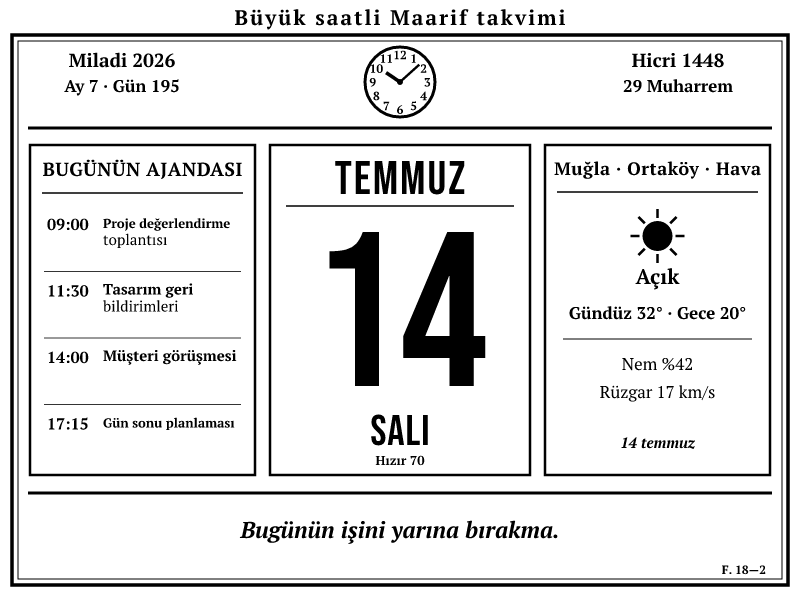
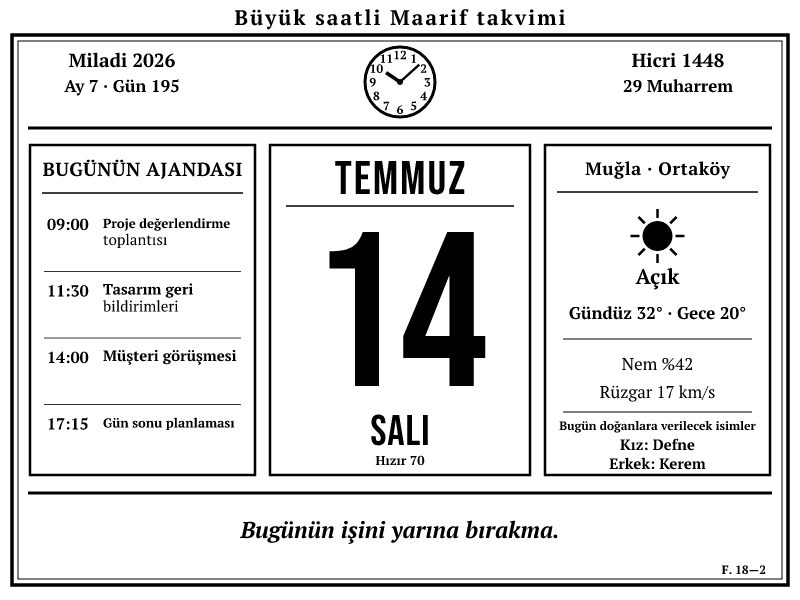
feat: add daily name suggestions

Changed region(s): [[0.6875, 0.66, 0.9375, 0.78], [0.6875, 0.27, 0.9688, 0.3]]

diff --git a/src/names.js b/src/names.js
@@ -1,0 +1,49 @@
+// Her takvim günü için çevrimdışı, sabit kız/erkek ismi önerileri.
+// Ay ve gün bazlı seçim sayesinde aynı tarih farklı yıllarda aynı isimleri gösterir.
+const GIRL_NAMES = Object.freeze([
+  'Ada', 'Alya', 'Asel', 'Asya', 'Ayça', 'Aylin', 'Azra', 'Bade',
+  'Beril', 'Ceren', 'Ceyda', 'Damla', 'Defne', 'Deren', 'Duru', 'Ece',
+  'Ecrin', 'Ela', 'Elif', 'Elvan', 'Esila', 'Eylül', 'Gökçe', 'Hazal',
+  'Hilal', 'İdil', 'İlayda', 'İnci', 'İpek', 'Irmak', 'Lale', 'Lina',
+  'Masal', 'Melek', 'Melis', 'Mina', 'Miray', 'Nehir', 'Nisan', 'Öykü',
+  'Pelin', 'Rüya', 'Selin', 'Serra', 'Sude', 'Şimal', 'Tuana', 'Yağmur',
+  'Yaren', 'Yasemin', 'Zehra', 'Zeynep',
+]);
+
+const BOY_NAMES = Object.freeze([
+  'Alp', 'Alparslan', 'Aras', 'Arda', 'Atlas', 'Ayaz', 'Baran', 'Bartu',
+  'Batuhan', 'Berk', 'Bora', 'Buğra', 'Can', 'Çağan', 'Çınar', 'Demir',
+  'Deniz', 'Doruk', 'Efe', 'Emir', 'Emre', 'Eren', 'Evren', 'Göktuğ',
+  'Kaan', 'Kerem', 'Kıvanç', 'Koray', 'Kuzey', 'Mert', 'Mete', 'Miran',
+  'Oğuz', 'Onur', 'Ömer', 'Poyraz', 'Rüzgar', 'Sarp', 'Selim', 'Taha',
+  'Tan', 'Taylan', 'Toprak', 'Tuna', 'Umut', 'Uras', 'Utku', 'Yaman',
+  'Yiğit', 'Yunus', 'Zafer', 'Eymen',
+]);
+
+function calendarDayIndex(iso) {
+  const match = /^(\d{4})-(\d{2})-(\d{2})$/.exec(String(iso));
+  if (!match) throw new Error('Date must use YYYY-MM-DD format');
+
+  const year = Number(match[1]);
+  const month = Number(match[2]);
+  const day = Number(match[3]);
+  const original = new Date(Date.UTC(year, month - 1, day));
+  if (
+    original.getUTCFullYear() !== year ||
+    original.getUTCMonth() !== month - 1 ||
+    original.getUTCDate() !== day
+  ) {
+    throw new Error('Date must be a valid YYYY-MM-DD value');
+  }
+
+  const leapYearStart = Date.UTC(2000, 0, 1);
+  return Math.floor((Date.UTC(2000, month - 1, day) - leapYearStart) / 86400000);
+}
+
+export function getNameSuggestions(effectiveISO) {
+  const day = calendarDayIndex(effectiveISO);
+  return {
+    girl: GIRL_NAMES[day % GIRL_NAMES.length],
+    boy: BOY_NAMES[(day * 5 + 11) % BOY_NAMES.length],
+  };
+}

diff --git a/src/render.js b/src/render.js
@@ -13,7 +13,11 @@ const DISPLAY_EM = 0.44; // Bebas Neue ~0.44 em/karakter
 const HEADER_TEXT = process.env.HEADER_TEXT || 'Büyük saatli Maarif takvimi';
 const FOOTER_TEXT = process.env.FOOTER_TEXT || 'F. 18—2';
 // "|" ile satırlara bölünür
-const WEATHER_LABEL = (process.env.WEATHER_LABEL || 'Muğla|Ortaköy|Hava').split('|').slice(0, 3);
+const WEATHER_LABEL = (process.env.WEATHER_LABEL || 'Muğla|Ortaköy')
+  .split('|')
+  .map((part) => part.trim())
+  .filter((part) => part && part.toLocaleLowerCase('tr-TR') !== 'hava')
+  .slice(0, 2);
 const CALENDAR_TITLE = (process.env.CALENDAR_TITLE || 'Google|Takvim').split('|').slice(0, 2);
 
 function esc(s) {
@@ -438,8 +442,20 @@ function landscapeWeatherBox(model, x, y, w, h) {
   p.push(txt(x + w / 2, y + 253, `Rüzgar ${wind}`, {
     size: fitSerif(`Rüzgar ${wind}`, w - 18, 17),
   }));
-  p.push(txt(x + w / 2, y + h - 27, `${model.effective.day} ${model.monthName.toLocaleLowerCase('tr-TR')}`, {
-    size: 15, style: 'italic', weight: 'bold',
+  p.push(line(x + 18, y + 267, x + w - 18, y + 267, 1));
+
+  const names = model.names || {};
+  const nameTitle = 'Bugün doğanlara verilecek isimler';
+  const girl = `Kız: ${names.girl || '—'}`;
+  const boy = `Erkek: ${names.boy || '—'}`;
+  p.push(txt(x + w / 2, y + 285, nameTitle, {
+    size: fitSerif(nameTitle, w - 18, 12), weight: 'bold',
+  }));
+  p.push(txt(x + w / 2, y + 305, girl, {
+    size: fitSerif(girl, w - 20, 15), weight: 'bold',
+  }));
+  p.push(txt(x + w / 2, y + 324, boy, {
+    size: fitSerif(boy, w - 20, 15), weight: 'bold',
   }));
   return p.join('');
 }

diff --git a/src/model.js b/src/model.js
@@ -2,6 +2,7 @@
 import { computeDateContext } from './datetime.js';
 import { getHicri, getHizirKasim } from './hijri.js';
 import { getQuoteOfDay } from './quotes.js';
+import { getNameSuggestions } from './names.js';
 import { getWeather } from './weather.js';
 import { getCalendar } from './calendar.js';
 
@@ -18,6 +19,7 @@ export async function assembleModel(instantMs = Date.now()) {
     hicri: getHicri(ctx.effective),
     hizir: getHizirKasim(ctx.effective),
     quote: getQuoteOfDay(ctx.effectiveISO),
+    names: getNameSuggestions(ctx.effectiveISO),
     weather,
     events: calendar.events,
     calendarSource: calendar.source,

diff --git a/scripts/landscape-previews.js b/scripts/landscape-previews.js
@@ -10,6 +10,7 @@ const model = {
   hicri: { yil: 1448, ayAdi: 'Muharrem', gun: 29 },
   hizir: { tur: 'Hızır', gun: 70 },
   quote: 'Bugünün işini yarına bırakma.',
+  names: { girl: 'Defne', boy: 'Kerem' },
   weather: {
     ok: true, ikon: 'sun', durum: 'Açık', gunduz: 32, gece: 20, nem: 42, ruzgar: 17,
     gunDogumu: '05:52', gunBatimi: '20:24', gunduzSuresi: '14 sa 32 dk',

diff --git a/README.md b/README.md
@@ -75,7 +75,7 @@ Sık kullanılanlar:
 |----------|--------------|
 | `CALENDAR_ICS_URL` | Google Takvim gizli iCal adresi (Ayarlar → Takvimi entegre et → "iCal biçiminde gizli adres"). **Gizli tut.** |
 | `WEATHER_LAT` / `WEATHER_LON` | Konumun koordinatları |
-| `WEATHER_LABEL` | Sağ kutu başlığı, örn. `İstanbul|Kadıköy|Hava` |
+| `WEATHER_LABEL` | Sağ kutudaki konum başlığı, örn. `İstanbul|Kadıköy` |
 | `HEADER_TEXT` / `FOOTER_TEXT` | Üst başlık / sağ alttaki form yazısı |
 | `QUOTES_FILE` | Kendi söz listen (JSON string dizisi) |
 | `CALENDAR_HIDE` | Gizlenecek etkinlik anahtar kelimeleri |